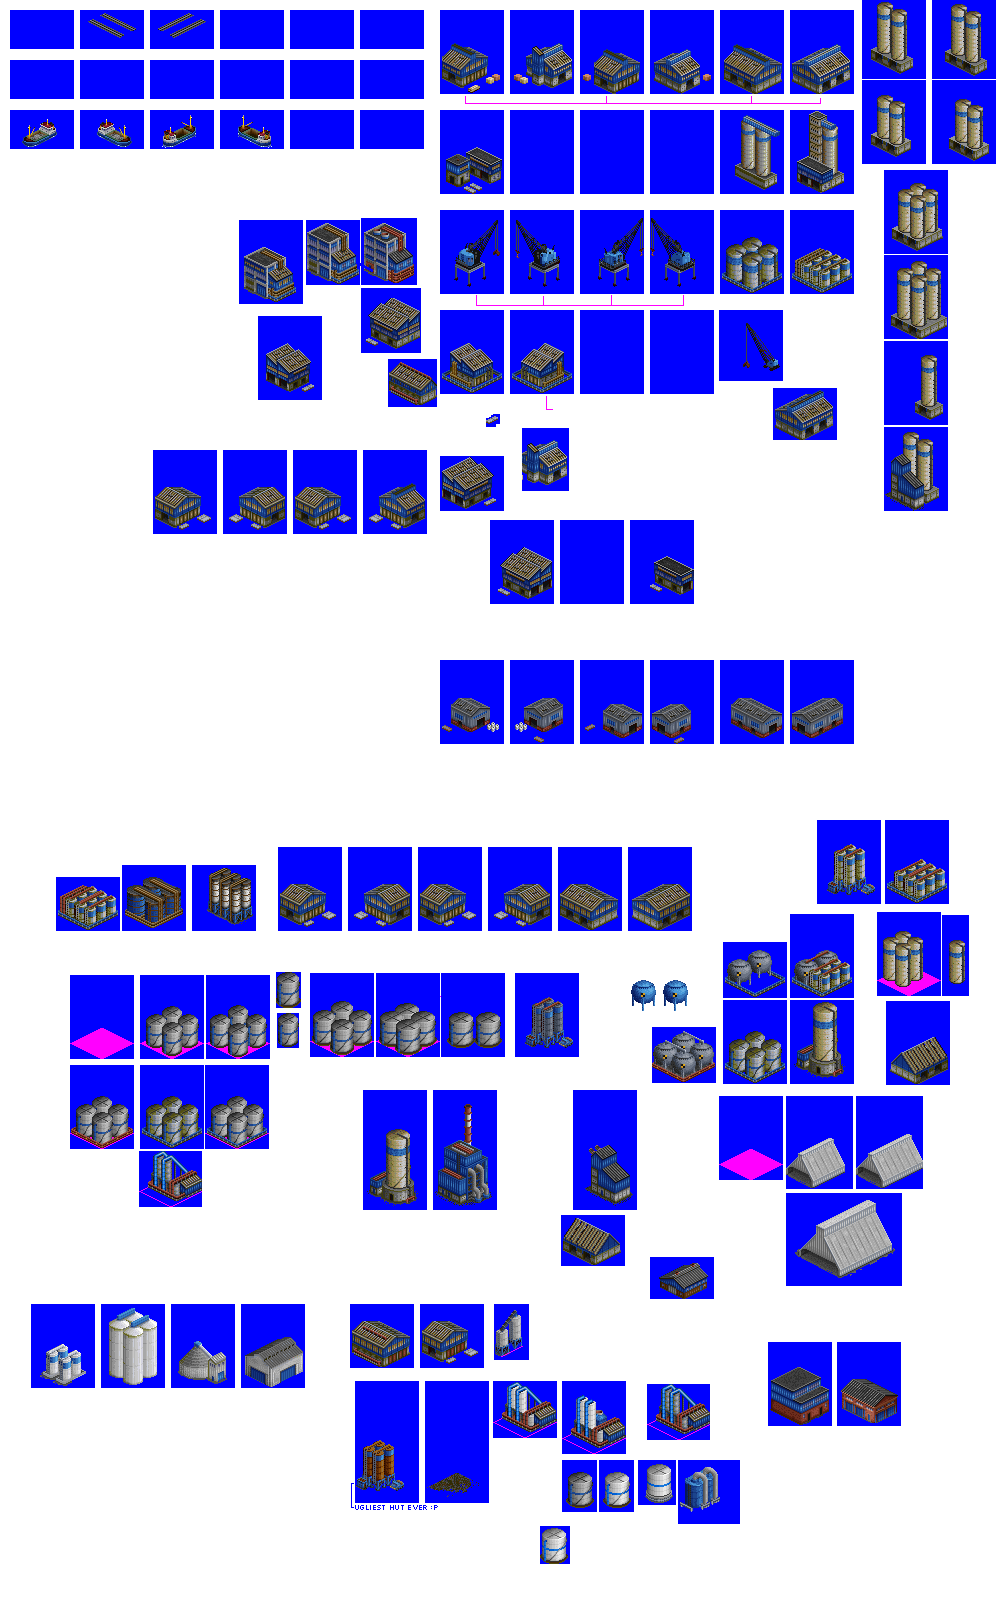
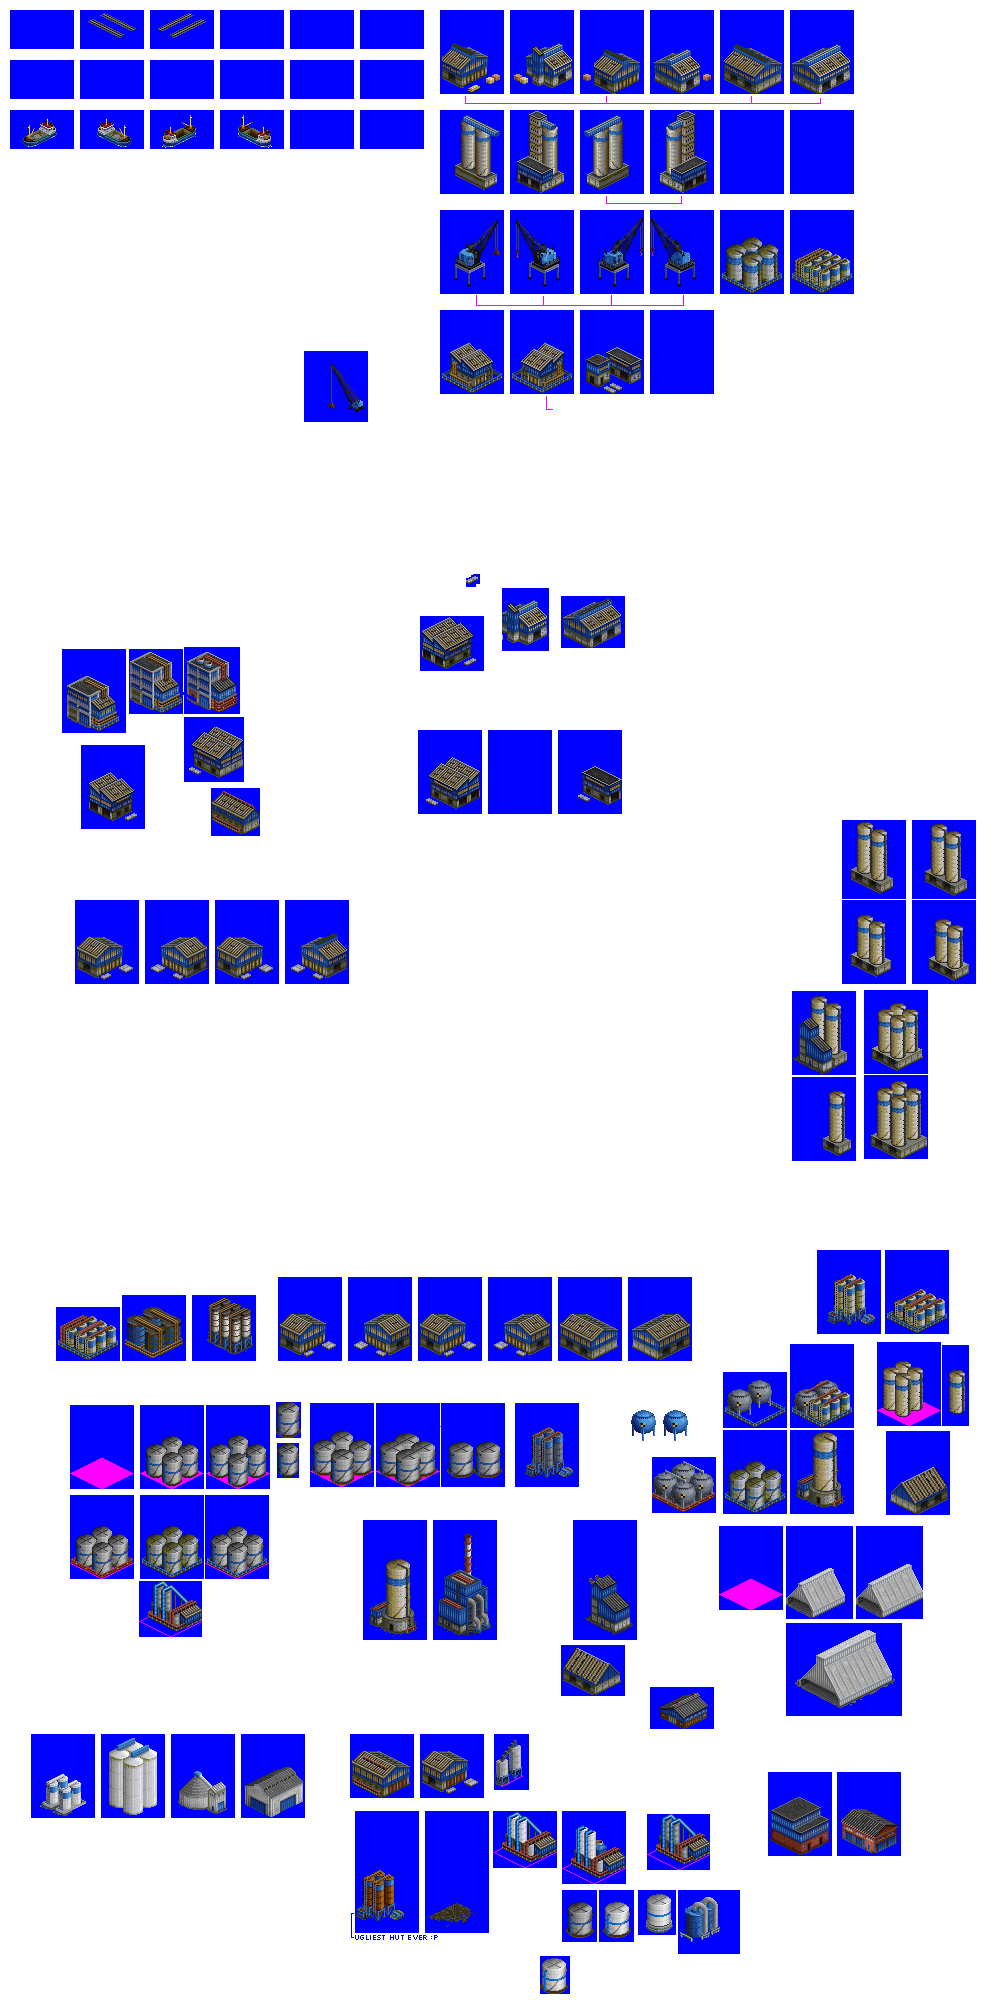
Change: add coast angles for Wharf silo

diff --git a/src/industries/wharf.py b/src/industries/wharf.py
@@ -123,13 +123,31 @@ spriteset_tanks_sphere = industry.add_spriteset(
     sprites=[(790, 210, 64, 84, -31, -61)],
 )
 spriteset_gatehouse = industry.add_spriteset(
+    sprites=[(580, 310, 64, 84, -31, -61)],
+)
+spriteset_silo_1_nw_se = industry.add_spriteset(
     sprites=[(440, 110, 64, 84, -31, -61)],
 )
-spriteset_silo_1 = industry.add_spriteset(
-    sprites=[(720, 110, 64, 84, -31, -61)],
+spriteset_silo_1_ne_sw = industry.add_spriteset(
+    sprites=[(580, 110, 64, 84, -31, -61)],
 )
-spriteset_silo_2 = industry.add_spriteset(
-    sprites=[(790, 110, 64, 84, -31, -61)],
+spriteset_silo_1_se_nw = industry.add_spriteset(
+    sprites=[(510, 110, 64, 84, -31, -61)],
+)
+spriteset_silo_1_sw_ne = industry.add_spriteset(
+    sprites=[(650, 110, 64, 84, -31, -61)],
+)
+spriteset_silo_2_nw_se = industry.add_spriteset(
+    sprites=[(510, 110, 64, 84, -31, -61)],
+)
+spriteset_silo_2_ne_sw = industry.add_spriteset(
+    sprites=[(650, 110, 64, 84, -31, -61)],
+)
+spriteset_silo_2_se_nw = industry.add_spriteset(
+    sprites=[(440, 110, 64, 84, -31, -61)],
+)
+spriteset_silo_2_sw_ne = industry.add_spriteset(
+    sprites=[(580, 110, 64, 84, -31, -61)],
 )
 spriteset_large_crane_ne_sw = industry.add_spriteset(
     sprites=[(440, 210, 64, 84, -31, -43)],
@@ -342,16 +360,16 @@ industry.add_magic_spritelayout(
         "jetty_foundations": True,
         "building_sprites": {
             "se": [
-                spriteset_silo_1,
+                spriteset_silo_1_nw_se,
             ],
             "sw": [
-                spriteset_silo_1,
+                spriteset_silo_1_ne_sw,
             ],
             "nw": [
-                spriteset_silo_1,
+                spriteset_silo_1_se_nw,
             ],
             "ne": [
-                spriteset_silo_1,
+                spriteset_silo_1_sw_ne,
             ],
         },
     },
@@ -364,16 +382,16 @@ industry.add_magic_spritelayout(
         "jetty_foundations": True,
         "building_sprites": {
             "se": [
-                spriteset_silo_2,
+                spriteset_silo_2_nw_se,
             ],
             "sw": [
-                spriteset_silo_2,
+                spriteset_silo_2_ne_sw,
             ],
             "nw": [
-                spriteset_silo_2,
+                spriteset_silo_2_se_nw,
             ],
             "ne": [
-                spriteset_silo_2,
+                spriteset_silo_2_sw_ne,
             ],
         },
     },
